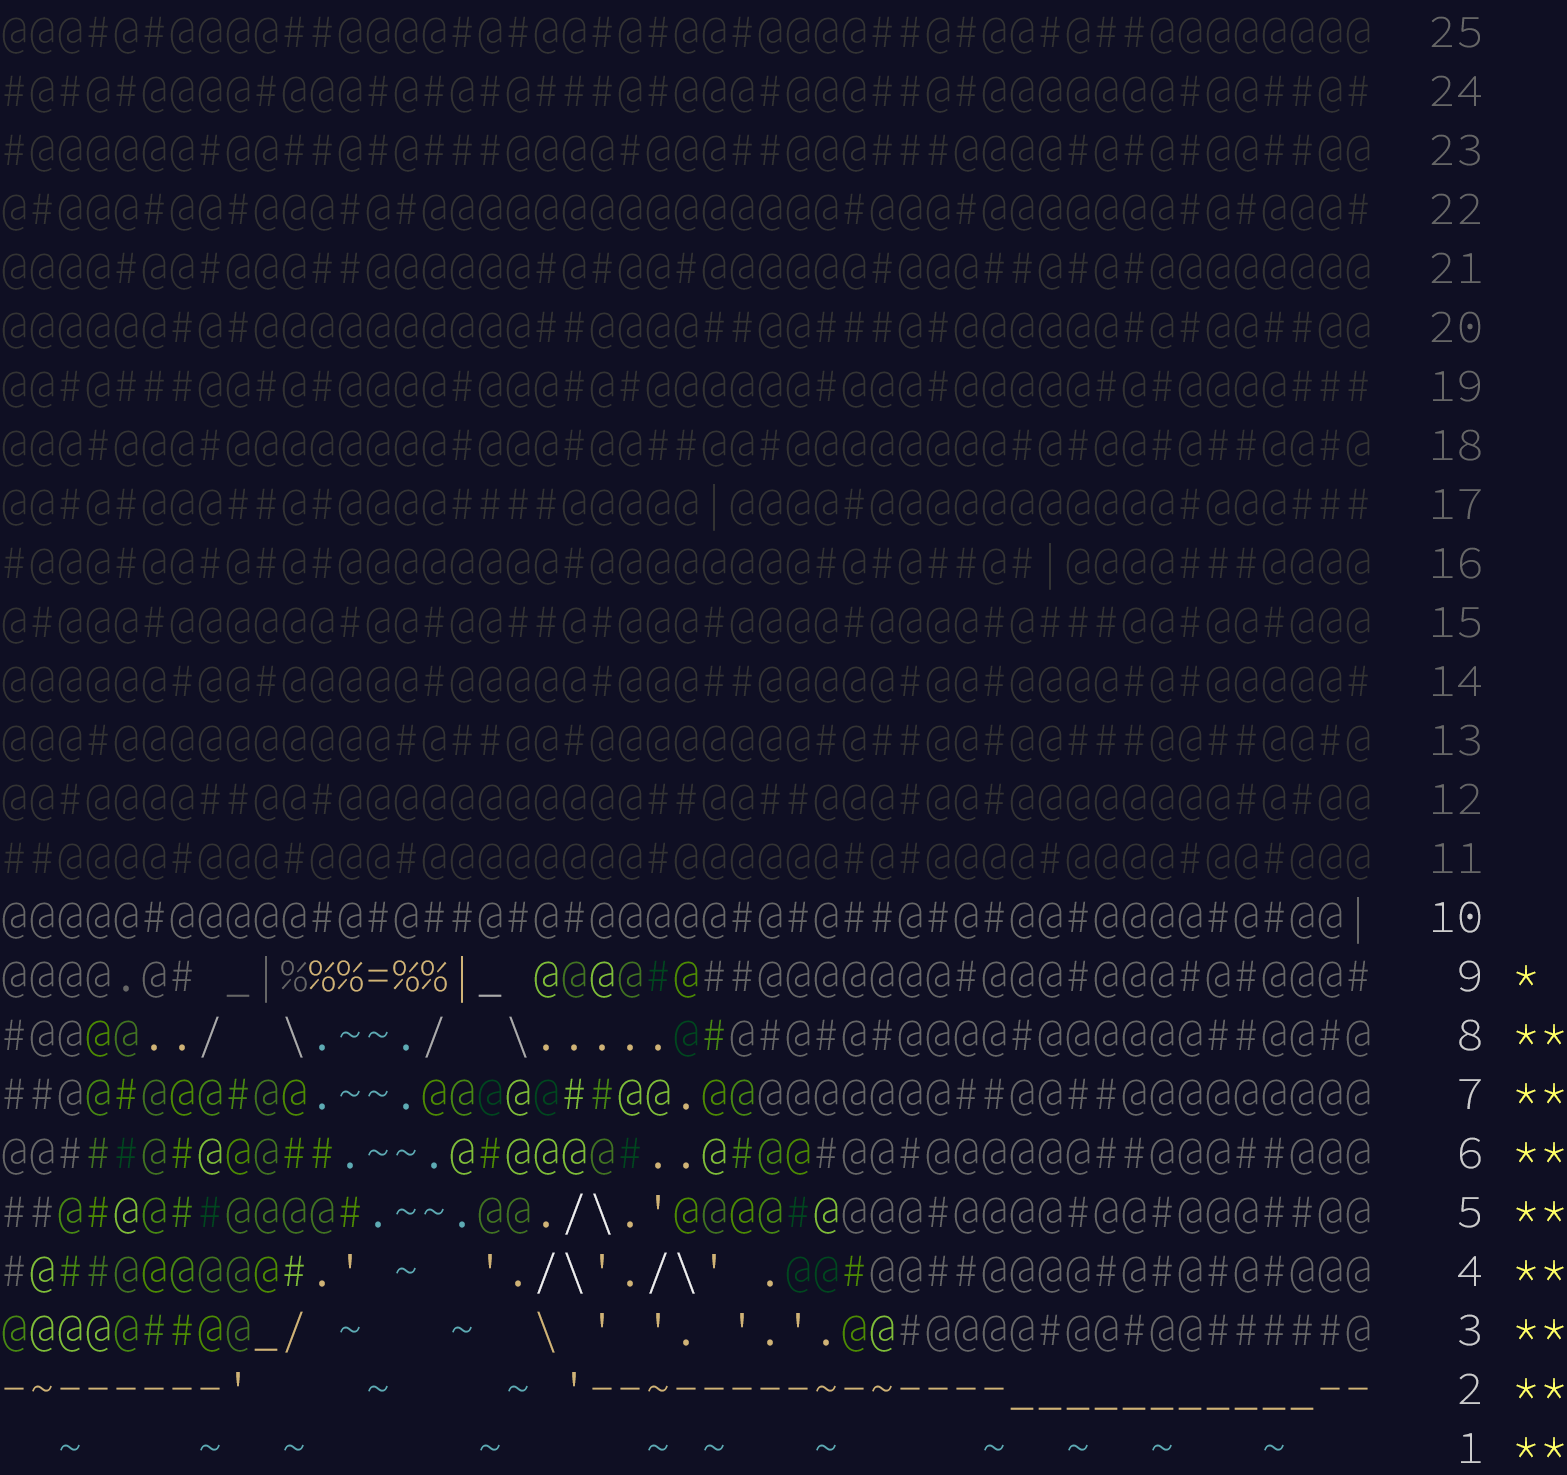
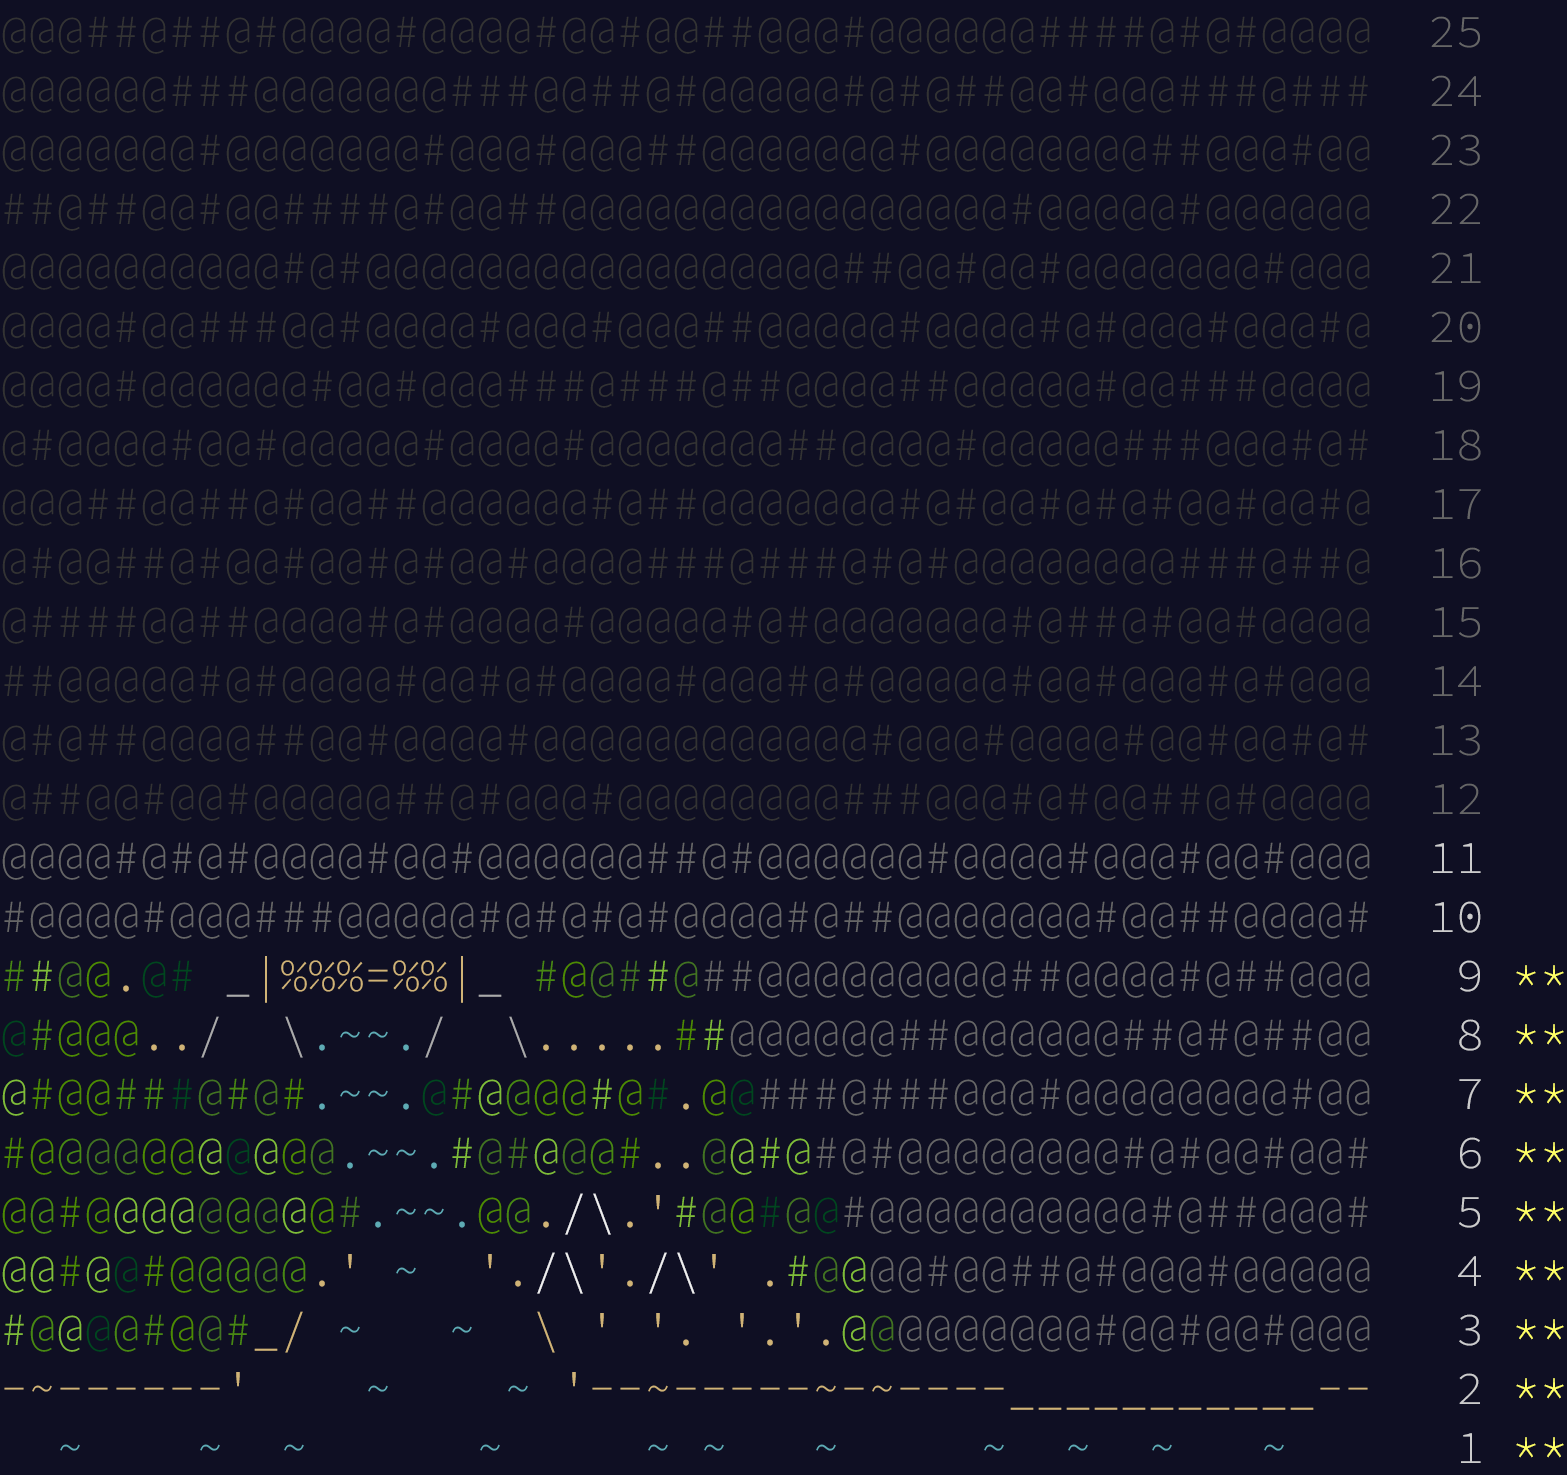
rust: 2022.09, part 2: solve

diff --git a/2022/rust/src/aoc09.rs b/2022/rust/src/aoc09.rs
@@ -11,7 +11,7 @@ struct Motion {
     steps: i32,
 }
 
-#[derive(Copy, Clone)]
+#[derive(Copy, Clone, Debug)]
 enum Direction {
     Left,
     Right,
@@ -108,53 +108,21 @@ impl<'a, I: Clone + Iterator<Item = &'a str>> Day<'a, I, usize> for Day09 {
         tail_positions.insert(start);
 
         let mut step = |direction: Direction| {
-            let mut head = *rope.first().unwrap();
-            for (i, knot) in rope.iter_mut().enumerate() {
-                match direction {
-                    Left => {
-                        if i == 0 {
-                            knot.0 -= 1;
-                        } else {
-                            let new_x = knot.0 - 1;
-                            if head.0 < new_x {
-                                *knot = (new_x, head.1);
-                            }
-                        }
-                    }
-                    Right => {
-                        if i == 0 {
-                            knot.0 += 1;
-                        } else {
-                            let new_x = knot.0 + 1;
-                            if head.0 > new_x {
-                                *knot = (new_x, head.1);
-                            }
-                        }
-                    }
-                    Up => {
-                        if i == 0 {
-                            knot.1 += 1;
-                        } else {
-                            let new_y = knot.1 + 1;
-                            if head.1 > new_y {
-                                *knot = (head.0, new_y);
-                            }
-                        }
-                    }
-                    Down => {
-                        if i == 0 {
-                            knot.1 -= 1;
-                        } else {
-                            let new_y = knot.1 - 1;
-                            if head.1 < new_y {
-                                *knot = (head.0, new_y);
-                            }
-                        }
-                    }
-                }
-                head = *knot;
+            let mut iter = rope.iter_mut();
+            let mut head = iter.next().unwrap();
+            match direction {
+                Left => head.0 -= 1,
+                Right => head.0 += 1,
+                Up => head.1 += 1,
+                Down => head.1 -= 1,
             }
-            tail_positions.insert(head);
+            for knot in iter {
+                if !are_touching(head, knot) {
+                    *knot = follow(head, knot);
+                }
+                head = knot;
+            }
+            tail_positions.insert(*head);
         };
 
         for motion in input.map(str::parse::<Motion>) {
@@ -164,15 +132,36 @@ impl<'a, I: Clone + Iterator<Item = &'a str>> Day<'a, I, usize> for Day09 {
             }
         }
 
-        println!("positions: {:?}", tail_positions);
-
         Some(tail_positions.len())
     }
 }
 
+fn are_touching(head: &(i32, i32), tail: &(i32, i32)) -> bool {
+    (head.0 - tail.0).abs() <= 1 && (head.1 - tail.1).abs() <= 1
+}
+
+fn follow(head: &(i32, i32), tail: &(i32, i32)) -> (i32, i32) {
+    let new_x = if head.0 > tail.0 {
+        tail.0 + 1
+    } else if head.0 < tail.0 {
+        tail.0 - 1
+    } else {
+        tail.0
+    };
+    let new_y = if head.1 > tail.1 {
+        tail.1 + 1
+    } else if head.1 < tail.1 {
+        tail.1 - 1
+    } else {
+        tail.1
+    };
+    (new_x, new_y)
+}
+
 #[cfg(test)]
 mod tests {
-    use super::{Day, Day09};
+    use super::{follow, Day, Day09};
+    use crate::aoc09::are_touching;
     use std::str::Split;
 
     const INPUT1: &str = "R 4,U 4,L 3,D 1,R 4,D 1,L 5,R 2";
@@ -198,5 +187,52 @@ mod tests {
     #[test]
     fn test2() {
         assert_eq!(Some(36), test_part2(INPUT2));
+    }
+
+    #[test]
+    fn test_are_touching() {
+        assert_eq!(false, are_touching(&(2, 2), &(0, 0)));
+        assert_eq!(false, are_touching(&(2, 1), &(0, 0)));
+        assert_eq!(false, are_touching(&(1, 2), &(0, 0)));
+        assert_eq!(false, are_touching(&(-2, -2), &(0, 0)));
+        assert_eq!(false, are_touching(&(-2, -1), &(0, 0)));
+        assert_eq!(false, are_touching(&(-1, -2), &(0, 0)));
+
+        assert_eq!(true, are_touching(&(0, 0), &(0, 0)));
+        assert_eq!(true, are_touching(&(0, 1), &(0, 0)));
+        assert_eq!(true, are_touching(&(1, 0), &(0, 0)));
+        assert_eq!(true, are_touching(&(1, 1), &(0, 0)));
+        assert_eq!(true, are_touching(&(0, -1), &(0, 0)));
+        assert_eq!(true, are_touching(&(-1, 0), &(0, 0)));
+        assert_eq!(true, are_touching(&(-1, -1), &(0, 0)));
+
+        assert_eq!(true, are_touching(&(0, 0), &(-1, -1)));
+        assert_eq!(true, are_touching(&(0, -1), &(-1, -1)));
+        assert_eq!(true, are_touching(&(-1, 0), &(-1, -1)));
+        assert_eq!(true, are_touching(&(-1, -1), &(-1, -1)));
+        assert_eq!(true, are_touching(&(-2, -1), &(-1, -1)));
+        assert_eq!(true, are_touching(&(-1, -2), &(-1, -1)));
+        assert_eq!(true, are_touching(&(-2, -2), &(-1, -1)));
+    }
+
+    #[test]
+    fn test_follow() {
+        assert_eq!((1, 1), follow(&(2, 2), &(0, 0)));
+        assert_eq!((1, 1), follow(&(2, 1), &(0, 0)));
+        assert_eq!((1, 1), follow(&(1, 2), &(0, 0)));
+
+        assert_eq!((-1, -1), follow(&(-2, -2), &(0, 0)));
+        assert_eq!((-1, -1), follow(&(-2, -1), &(0, 0)));
+        assert_eq!((-1, -1), follow(&(-1, -2), &(0, 0)));
+
+        assert_eq!((0, 0), follow(&(1, 1), &(-1, -1)));
+        assert_eq!((0, 0), follow(&(1, 0), &(-1, -1)));
+        assert_eq!((0, 0), follow(&(0, 1), &(-1, -1)));
+
+        assert_eq!((-2, -2), follow(&(-3, -3), &(-1, -1)));
+        assert_eq!((-2, -2), follow(&(-3, -2), &(-1, -1)));
+        assert_eq!((-2, -2), follow(&(-2, -3), &(-1, -1)));
+
+        assert_eq!((-10, -4), follow(&(-11, -4), &(-9, -5)));
     }
 }

diff --git a/2022/README.md b/2022/README.md
@@ -16,7 +16,7 @@
 ##@@@@@@@@@@@@###@#@@@@@@@@##@@@@@@@##@@@@#@@#@@@  12
 @#@##@#@@@@@@@@@#@####@@####@#@@@#@##@@#@##@@##@@  11
 @@@@@@@#@##@@@#@@#@@@##@@@@###@@@#@@@#@#@##@@@@@#  10
-@@@@.@# _|%%%=%%|_ @@@@#@##@@@@@@@#@@@#@@@#@#@@@#   9 *
+##@@.@# _|%%%=%%|_ #@@##@##@@@@@@@@@##@@@@#@##@@@   9 **
 @@#@@../  \.~~./  \.....@@@##@@#@##@@#@@@@@@@#@@@   8 **
 ##@|@#@@@@@.~~.@@@@@#@@@.@@@##@@#@@@@@#@@@@#@#@@@   7 **
 @@@@@@@@@@@@.~~.@@@@@@@..@@@@##@@@@@@#@@@@@@#@@##   6 **
@@ -27,4 +27,4 @@
   ~    ~  ~      ~     ~ ~   ~     ~  ~  ~   ~      1 **
 ```
 
-![Calendar after day 9, part 1](calendar.png)
+![Calendar after day 9](calendar.png)
